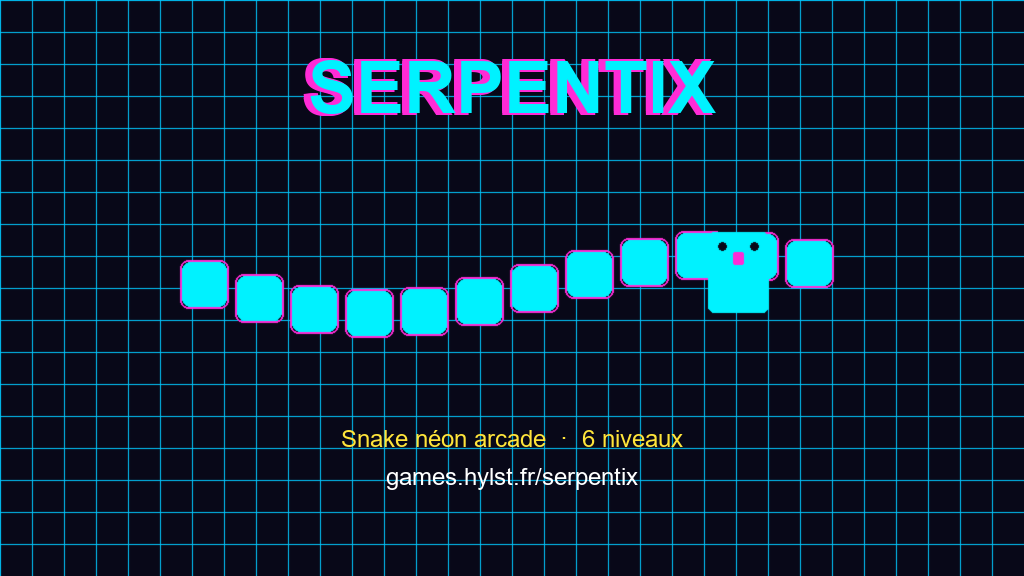
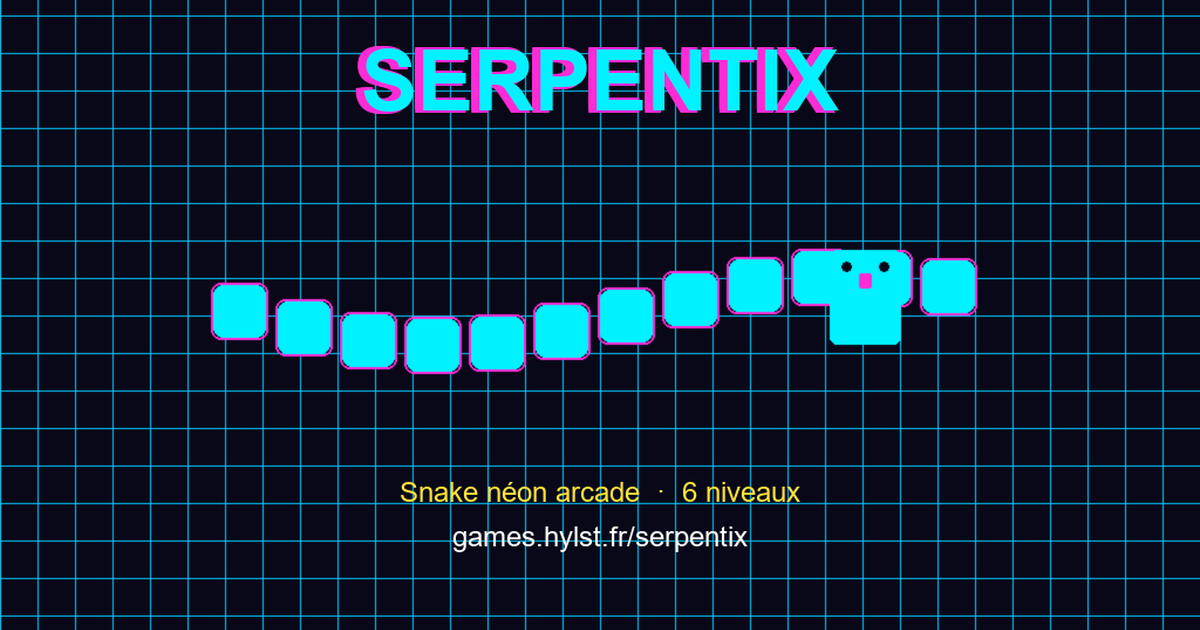
Open Graph : image 1200 x 630 et metadonnees completes

diff --git a/index.html b/index.html
@@ -10,13 +10,17 @@
     <meta property="og:type" content="website" />
     <meta property="og:title" content="Serpentix" />
     <meta property="og:description" content="Serpentix : 6 niveaux, obstacles, musique synthwave dynamique. Joue gratuitement !" />
-    <meta property="og:image" content="https://games.hylst.fr/serpentix/og-image.png" />
+    <meta property="og:image" content="https://games.hylst.fr/serpentix/og-image.png?v=2" />
+    <meta property="og:image:type" content="image/png" />
+    <meta property="og:image:width" content="1200" />
+    <meta property="og:image:height" content="630" />
+    <meta property="og:image:alt" content="Serpentix" />
     <meta property="og:url" content="https://games.hylst.fr/serpentix/" />
     <meta property="og:site_name" content="Hylst.Games" />
     <meta name="twitter:card" content="summary_large_image" />
     <meta name="twitter:title" content="Serpentix" />
     <meta name="twitter:description" content="Serpentix : 6 niveaux, obstacles, musique synthwave. Joue gratuitement !" />
-    <meta name="twitter:image" content="https://games.hylst.fr/serpentix/og-image.png" />
+    <meta name="twitter:image" content="https://games.hylst.fr/serpentix/og-image.png?v=2" />
     <meta name="robots" content="index, follow" />
     <link rel="canonical" href="https://games.hylst.fr/serpentix/" />
     <link rel="icon" type="image/webp" href="favicon.webp" />
